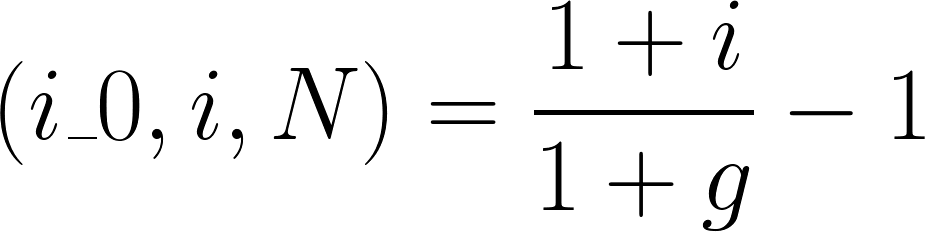
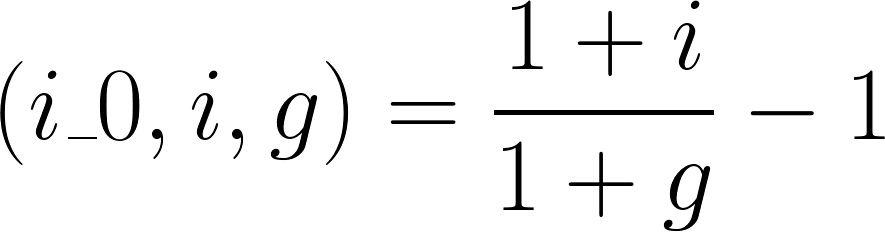
Fixed things

diff --git a/EconCalculator.py b/EconCalculator.py
@@ -50,18 +50,28 @@ class Formula:
         if (self.formulaText.find(varStr) != -1): # If we can still find the variable, we need to iterate again
             self.parseAgain = True
             
-    def evaluateFormula(self, equationNotation, actualEquation):        
+    def evaluateFormula(self, equationNotation, actualEquation):
+        print "Finding " + equationNotation
         start = self.formulaText.find("(" + equationNotation)
-        if (start == -1):
+        if (start == -1 or self.formulaText[start+1] != equationNotation[0]):
+            print "Not found"
             return
-        end = self.formulaText.find(")", start)        
+        brackets = 0
+        for i,c in enumerate(self.formulaText[start:]):
+            if (c == "("):
+                brackets += 1
+            elif (c == ")"):
+                brackets -= 1
+            if (brackets == 0):
+                end = i + start
+                break
         args = self.formulaText[start:end].split(",")
-
         self.formulaText = self.formulaText[:start] + actualEquation + self.formulaText[end+1:]
         
         for a, arg in enumerate(args[1:]): #Skip the first element because it's the equation
             self.formulaText = self.formulaText.replace("arg_"+str(a+1), str(arg).strip())
-            print "Replaced arg_"+str(a+1)+" with "+str(arg)
+            print "Replaced arg_"+str(a+1)+" with "+str(arg) + " in " + equationNotation
+            print ">>" + self.formulaText
     
     def replaceFormulas(self):
         self.evaluateFormula("i_0", "(((1+arg_1)/(1+arg_2))-1)")

diff --git a/GUI/GenerateImages.py b/GUI/GenerateImages.py
@@ -19,5 +19,5 @@ formula_as_file(r"(A/P, i, N) = \frac{i(1+i)^N}{(1+i)^N-1}", "Eq_AP.png")
 formula_as_file(r"(P/A, i, N) = \frac{(1+i)^N-1}{i(1+i)^N}", "Eq_PA.png")
 formula_as_file(r"(A/G, i, N) = \frac{1}{i}-\frac{N}{i(1+i)^N-1}", "Eq_AG.png")
 formula_as_file(r"(P/A, g, i, N) = \frac{(1+i_0)^N-1}{i_0(1+i_0)^N}\left ( \frac{1}{1+g} \right )", "Eq_PAg.png")
-formula_as_file( r"(i\_0, i, N) = \frac{1+i}{1+g}-1", "Eq_i_0.png")
-formula_as_file( r"(i\_e, i, N) = \left ( 1+\frac{r}{m} \right )^k-1", "Eq_i_e.png")
+formula_as_file( r"(i\_0, i, g) = \frac{1+i}{1+g}-1", "Eq_i_0.png")
+formula_as_file( r"(i\_e, r, m, k) = \left ( 1+\frac{r}{m} \right )^k-1", "Eq_i_e.png")

diff --git a/Readme.md b/Readme.md
@@ -1,0 +1,8 @@
+Economics Calculator by Cameron Swinoga
+=======================================
+
+##### An interface for calculating or simplifying calculations.
+
+Screenshots:
+
+<img src="./media/image1.PNG" width="532" height="666" />
